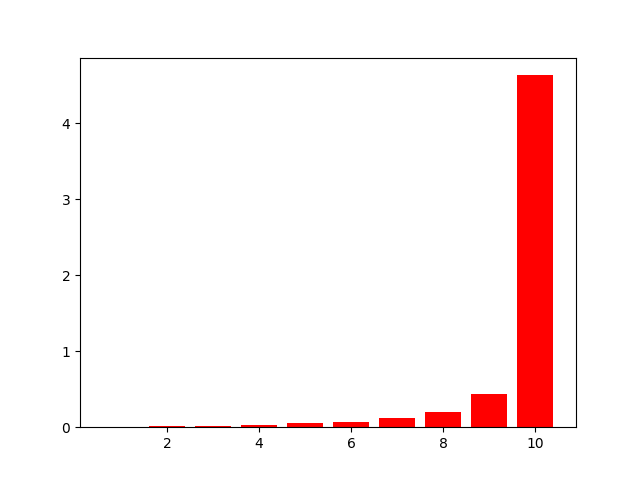
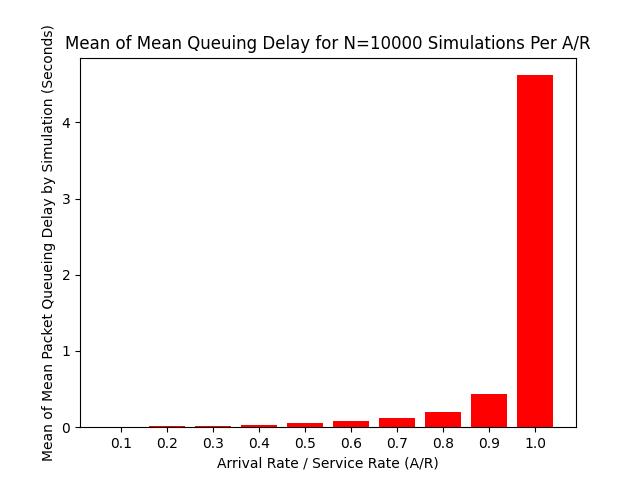
Parallelize Simulation

diff --git a/src/main.rs b/src/main.rs
@@ -6,17 +6,19 @@ mod simulator;
 mod simulation;
 mod router_queue;
 
-use std::os::unix::prelude::PermissionsExt;
+use std::process::{Command, Output};
 use std::fs::{File, OpenOptions};
+use std::{fs, env, io, thread};
 use std::io::{Read, Write};
-use std::process::Command;
 use simulator::Simulator;
 use std::time::Instant;
 
 const NUM_SUMULATIONS: usize = 2000;
+const GRAPH_CODE_PATH: &'static str = "python/graph_code.py";
+const SCRIPT_PATH: &'static str = "graph.py";
 
-fn main() -> Result<(), std::io::Error> {
-    let num_simulations = std::env::args()
+fn main() -> Result<(), io::Error> {
+    let num_simulations = env::args()
         .nth(1)
         .unwrap_or_else(|| NUM_SUMULATIONS.to_string())
         .parse()
@@ -27,52 +29,69 @@ fn main() -> Result<(), std::io::Error> {
     let mut avg_qd_25pcts: Vec<f64> = Vec::new();
     let mut avg_qd_75pcts: Vec<f64> = Vec::new();
     let mut avg_qs: Vec<f64> = Vec::new();
+    let mut handles = Vec::new();
 
     for arrival_rate in 1..11 {
-        print!("Running {} simulations for arrival rate={} ...", num_simulations, arrival_rate);
-        std::io::stdout().flush()?;
-        let start = Instant::now();
-        let mut s = Simulator::new(arrival_rate, num_simulations);
+        xs.push(arrival_rate as f64 / 10.0);
+        let handle = thread::spawn(move || {
+            let mut s = Simulator::new(arrival_rate, num_simulations);
 
-        let (avg_qd, avg_qd_25pct, avg_qd_75pct, mean_qs) = s.run();
+            let start = Instant::now();
+            let (avg_qd, avg_qd_25pct, avg_qd_75pct, mean_qs) = s.run();
+            let duration = Instant::now() - start;
+
+            (arrival_rate, avg_qd, avg_qd_25pct, avg_qd_75pct, mean_qs, duration.as_secs_f64())
+        });
+
+        handles.push(handle);
+    }
+
+    for handle in handles.into_iter() {
+        let result = handle.join().unwrap();
+        let (arrival_rate, avg_qd, avg_qd_25pct, avg_qd_75pct, mean_qs, duration) = result;
+        avg_qs.push(mean_qs);
         avg_qds.push(avg_qd);
         avg_qd_25pcts.push(avg_qd_25pct);
         avg_qd_75pcts.push(avg_qd_75pct);
-        avg_qs.push(mean_qs);
-        xs.push(arrival_rate as f64 / 10.0);
-
-        let duration = Instant::now() - start;
-        println!(" {}s", duration.as_secs_f64());
+        println!("Running {} simulations for arrival rate={} took {}s", num_simulations, arrival_rate, duration);
     }
 
-    std::fs::remove_file("graph.py").unwrap_or(());
-    let mut results: File = OpenOptions::new()
-        .read(true)
-        .write(true)
-        .create(true)
-        .open("graph.py")?;
-    let metadata = results.metadata()?;
-    let mut permissions = metadata.permissions();
-    permissions.set_mode(0o755);
-
+    let mut results = open_script_file()?;
+    writeln!(results, "N={}", num_simulations)?;
     writeln!(results, "xs={:?}", xs)?;
     writeln!(results, "qs={:?}", avg_qs)?;
     writeln!(results, "mean={:?}", avg_qds)?;
     writeln!(results, "p25={:?}", avg_qd_25pcts)?;
     writeln!(results, "p75={:?}", avg_qd_75pcts)?;
 
-    let mut graph_code = File::open("python/graph_code.py")?;
-    let mut graph_code_str = String::new();
-    graph_code.read_to_string(&mut graph_code_str)?;
-    writeln!(results, "{}", graph_code_str)?;
-
-    let cmd = Command::new("python3")
-        .arg("graph.py")
-        .output()?;
-
+    let cmd: Output = run_graphing_script(&mut results)?;
     eprintln!("status: {}", cmd.status);
     eprintln!("stdout: {}", String::from_utf8_lossy(&cmd.stdout));
-    // std::fs::remove_file("graph.py").unwrap();
+    fs::remove_file(SCRIPT_PATH).unwrap();
 
     Ok(())
+}
+
+fn open_script_file() -> Result<File, io::Error> {
+    fs::remove_file(SCRIPT_PATH).unwrap_or(());
+    let results: File = OpenOptions::new()
+        .read(true)
+        .write(true)
+        .create(true)
+        .open(SCRIPT_PATH)?;
+
+    Ok(results)
+}
+
+fn run_graphing_script(results_file: &mut File) -> Result<Output, io::Error> {
+    let mut graph_code = File::open(GRAPH_CODE_PATH)?;
+    let mut graph_code_str = String::new();
+    graph_code.read_to_string(&mut graph_code_str)?;
+    writeln!(results_file, "{}", graph_code_str)?;
+
+    let out = Command::new("python3")
+        .arg(SCRIPT_PATH)
+        .output()?;
+
+    Ok(out)
 }

diff --git a/src/simulation.rs b/src/simulation.rs
@@ -1,8 +1,9 @@
+use rand::{Rng, distributions::Uniform};
 use crate::router_queue::RouterQueue;
 use std::collections::HashMap;
 use crate::packet::Packet;
 use crate::time::Time;
-use rand::Rng;
+use std::cmp::max;
 
 const GRANULARITY_INV: usize = 10;
 
@@ -10,7 +11,7 @@ pub struct SingleSimulation {
     arrival_rate: usize,
     total_time: usize,
     router_queue: RouterQueue,
-    packet_arrivals: HashMap<Time, usize>
+    packet_arrivals: HashMap<Time, usize>,
 }
 
 impl SingleSimulation {
@@ -19,50 +20,53 @@ impl SingleSimulation {
             arrival_rate,
             total_time: 1000,
             router_queue: RouterQueue::new(),
-            packet_arrivals: Default::default()
+            packet_arrivals: Default::default(),
         };
 
         this.generate_times();
         this
     }
 
-    fn generate_times(&mut self) {
-        let num_packets = self.arrival_rate * self.total_time;
-        let max_time = (self.total_time * GRANULARITY_INV) + 1;
-        let mut rng = rand::thread_rng();
-        let ts: Vec<Time> = (0..num_packets)
-            .map(|_| Time::init(rng.gen_range(0..max_time)))
-            .collect();
-
-        for t in ts.into_iter() {
-            match self.packet_arrivals.get(&t) {
-                Some(c) => self.packet_arrivals.insert(t, c + 1),
-                None => self.packet_arrivals.insert(t, 1)
-            };
-        }
+    fn reset(&mut self) {
+        self.router_queue.reset();
+        self.generate_times();
     }
 
-    pub fn simulate(mut self) -> (f64, usize) {
-        let mut _num_packets_pulled = 0;
-        let mut num_packets_pushed = 0;
+    fn generate_times(&mut self) {
+        self.packet_arrivals = Default::default();
+        let num_packets = self.arrival_rate * self.total_time;
+        let max_time = (self.total_time * GRANULARITY_INV) + 1;
+
+        let rng = rand::thread_rng();
+        let range = Uniform::from(0..max_time);
+
+        rng.sample_iter(&range)
+            .take(num_packets)
+            .map(|t: usize| Time::init(t))
+            .for_each(|t: Time| {
+                match self.packet_arrivals.get(&t) {
+                    Some(c) => self.packet_arrivals.insert(t, c + 1),
+                    None => self.packet_arrivals.insert(t, 1)
+                };
+            });
+    }
+
+    pub fn simulate_and_reset(&mut self) -> (f64, usize) {
         let mut max_queue_size = 0;
         let max_time = (self.total_time * GRANULARITY_INV) + 1;
 
         for t in (0..max_time).map(|t| Time::init(t)) {
             let count = self.packet_arrivals.get(&t).cloned();
             for _ in 0..count.unwrap_or_default() {
-                num_packets_pushed += 1;
                 self.router_queue.push(Packet::new(&t));
             }
 
-            max_queue_size = std::cmp::max(max_queue_size, self.router_queue.len());
-
-            if self.router_queue.pop(&t).is_some() {
-                _num_packets_pulled += 1;
-            }
+            max_queue_size = max(max_queue_size, self.router_queue.len());
+            self.router_queue.pop(&t);
         }
 
-        assert_eq!(num_packets_pushed, self.arrival_rate * self.total_time);
-        (self.router_queue.avg_qd(), max_queue_size)
+        let res = (self.router_queue.avg_qd(), max_queue_size);
+        self.reset();
+        res
     }
 }

diff --git a/src/simulator.rs b/src/simulator.rs
@@ -3,7 +3,10 @@ use crate::simulation::SingleSimulation;
 pub struct Simulator {
     num_simulations: usize,
     arrival_rate: usize,
+}
 
+fn mean(v: &Vec<f64>) -> f64 {
+    v.iter().sum::<f64>() / v.len() as f64
 }
 
 impl Simulator {
@@ -15,22 +18,16 @@ impl Simulator {
     }
 
     pub fn run(&mut self) -> (f64, f64, f64, f64) {
-        let mut avg_qds: Vec<f64> = Vec::new();
-        let mut max_qs: Vec<f64> = Vec::new();
-
-        for _ in 0..self.num_simulations {
-            let (avg_qd, max_q) = SingleSimulation::new(self.arrival_rate).simulate();
-            avg_qds.push(avg_qd);
-            max_qs.push(max_q as f64);
-        }
+        let mut simulator = SingleSimulation::new(self.arrival_rate);
+        let (mut avg_qds, max_qs): (Vec<f64>, Vec<f64>) = (0..self.num_simulations)
+            .map(|_| simulator.simulate_and_reset())
+            .map(|(a, b)| (a, b as f64))
+            .unzip();
 
         avg_qds.sort_by(|a, b| a.partial_cmp(b).unwrap());
-        let avg_qd = avg_qds.iter().sum::<f64>() / avg_qds.len() as f64;
         let avg_qd_25pct = avg_qds.iter().nth(avg_qds.len() / 4).unwrap();
         let avg_qd_75pct = avg_qds.iter().nth(avg_qds.len() * 3 / 4).unwrap();
 
-        let mean_qs = max_qs.iter().sum::<f64>() / max_qs.len() as f64;
-
-        return (avg_qd, *avg_qd_25pct, *avg_qd_75pct, mean_qs);
+        return (mean(&avg_qds), *avg_qd_25pct, *avg_qd_75pct, mean(&max_qs));
     }
 }

diff --git a/python/graph_code.py b/python/graph_code.py
@@ -1,18 +1,32 @@
 import matplotlib.pyplot as plt
 import numpy as np
 
-N = len(mean)
-
 fig, ax = plt.subplots()
 
-xaxis=np.arange(1, N+1)
+xaxis = np.arange(1, 11)
+# xs = np.array(xs)
 ax.bar(xaxis, qs, color='r')
-plt.savefig('img/rust-qs.png')
+ax.set_xticks(xaxis)
+ax.set_xticklabels(xs)
+plt.xlabel("Arrival Rate / Service Rate (A/R)")
+plt.ylabel("Mean Maximum Queue Size")
+plt.title(f"Mean of Max Queuing Delay for N={N} Simulations Per A/R")
+plt.savefig('results/rust-qs.png')
 
 fig, ax = plt.subplots()
 ax.bar(xaxis, mean, color='r', yerr=np.vstack([p25, p75]), capsize=8)
-plt.savefig('img/rust-qd.png')
+ax.set_xticks(xaxis)
+ax.set_xticklabels(xs)
+plt.xlabel("Arrival Rate / Service Rate (A/R)")
+plt.ylabel("Mean of Mean Packet Queueing Delay by Simulation (Seconds)")
+plt.title(f"Mean of Mean Queuing Delay for N={N} Simulations Per A/R")
+plt.savefig('results/rust-qd.png')
 
 fig, ax = plt.subplots()
 ax.bar(xaxis, mean, color='r')
-plt.savefig('img/rust-qd-no-bar.png')
+ax.set_xticks(xaxis)
+ax.set_xticklabels(xs)
+plt.xlabel("Arrival Rate / Service Rate (A/R)")
+plt.ylabel("Mean of Mean Packet Queueing Delay by Simulation (Seconds)")
+plt.title(f"Mean of Mean Queuing Delay for N={N} Simulations Per A/R")
+plt.savefig('results/rust-qd-no-bar.png')

diff --git a/src/router_queue.rs b/src/router_queue.rs
@@ -15,6 +15,11 @@ impl RouterQueue {
         }
     }
 
+    pub fn reset(&mut self) {
+        self.q = VecDeque::new();
+        self.qd = Vec::new();
+    }
+
     pub fn pop(&mut self, t: &Time) -> Option<Packet> {
         match self.q.pop_front() {
             Some(mut p) => {
